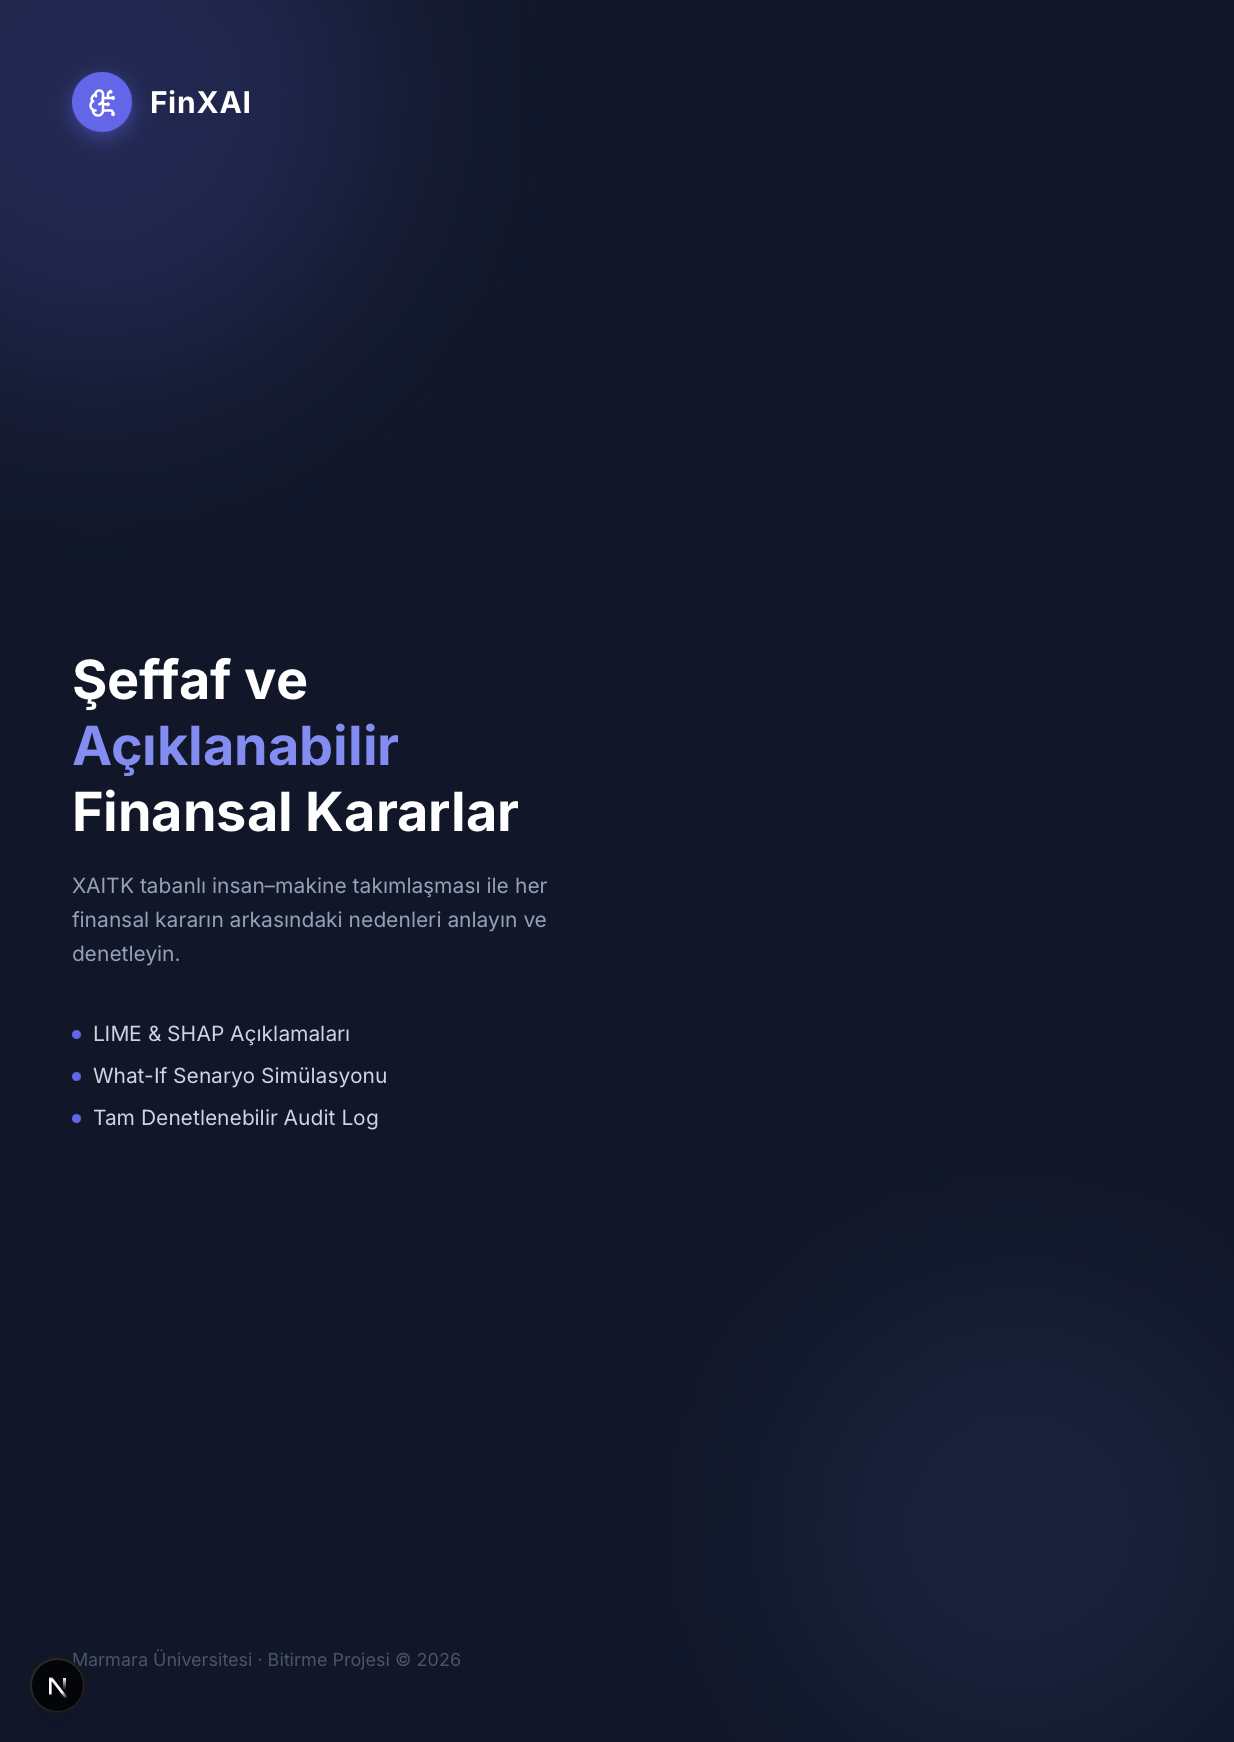
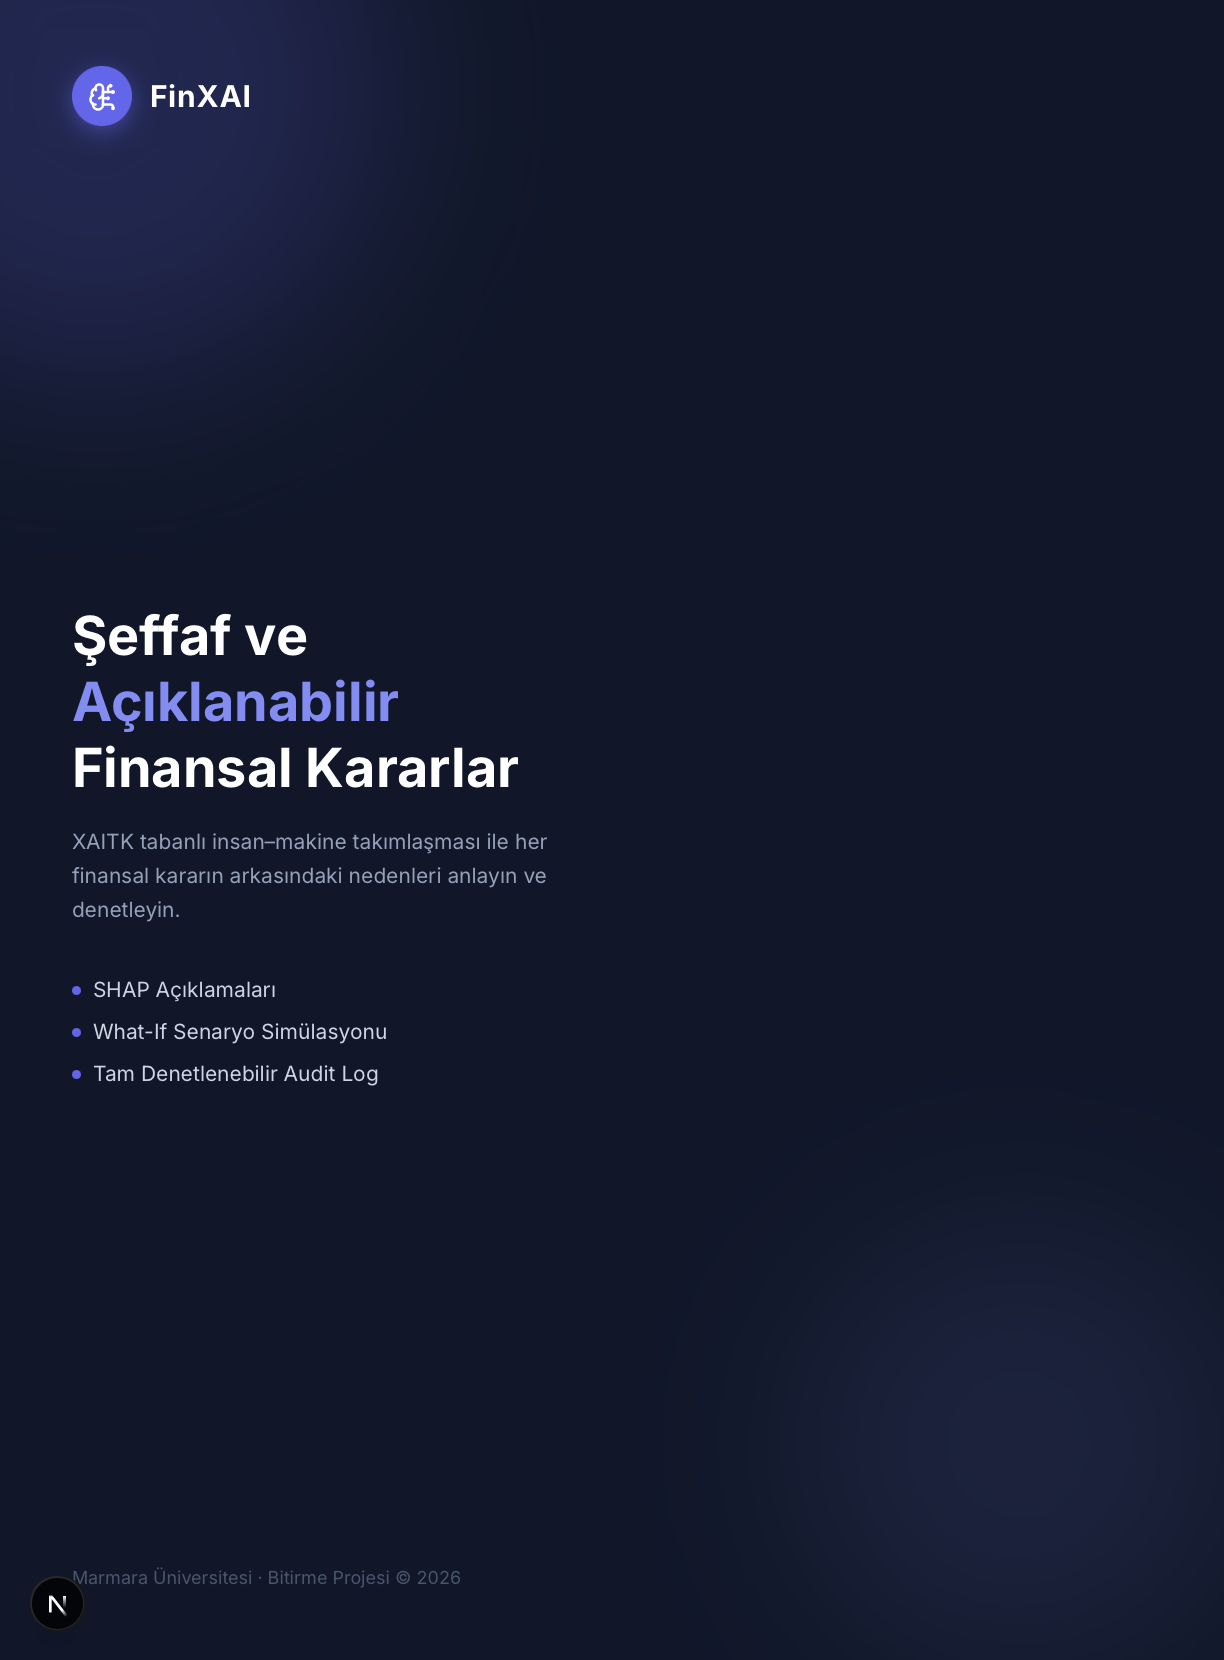
açıklamalar düzenlendi.

diff --git a/src/features/dashboard/components/SpecialistDashboard.tsx b/src/features/dashboard/components/SpecialistDashboard.tsx
@@ -35,11 +35,11 @@ function CustomTooltip({ active, payload }: { active?: boolean; payload?: Array<
 }
 
 function RiskGauge({ score }: { score: number }) {
-  const r       = 52;
-  const circ    = 2 * Math.PI * r;
-  const pct     = score / 100;
+  const r = 52;
+  const circ = 2 * Math.PI * r;
+  const pct = score / 100;
   const dashOff = circ * (1 - pct * 0.75);
-  const color   = score >= 70 ? '#ef4444' : score >= 40 ? '#f59e0b' : '#10b981';
+  const color = score >= 70 ? '#ef4444' : score >= 40 ? '#f59e0b' : '#10b981';
 
   return (
     <div className="flex flex-col items-center">
@@ -60,9 +60,9 @@ function RiskGauge({ score }: { score: number }) {
           style={{ transition: 'stroke-dashoffset 0.8s ease' }}
         />
         <text x="70" y="82" textAnchor="middle" fontSize="22" fontWeight="700"
-              fill="var(--text-primary)" fontFamily="inherit">{score}</text>
+          fill="var(--text-primary)" fontFamily="inherit">{score}</text>
         <text x="70" y="96" textAnchor="middle" fontSize="9" fill="var(--text-muted)"
-              fontFamily="inherit" fontWeight="600" letterSpacing="0.05em">RİSK SKORU</text>
+          fontFamily="inherit" fontWeight="600" letterSpacing="0.05em">RİSK SKORU</text>
       </svg>
     </div>
   );
@@ -84,7 +84,7 @@ export function SpecialistDashboard() {
   const isApproved = result.prediction === 0; // 0: Risksiz (Onaylandı), 1: Riskli (Reddedildi)
   const riskScore = Math.round(result.risk_probability * 100);
 
-  // API'den gelen önem derecelerini LIME formatına dönüştür
+  // API'den gelen önem derecelerini SHAP formatına dönüştür
   const chartData = result.top_explanations.map(exp => ({
     feature: exp.feature,
     contribution: exp.importance // Eğer API hep pozitif dönüyorsa hepsi aynı yönde çizer, risk yönüne göre renklendirilebilir ama şimdilik doğrudan kullanıyoruz.

diff --git a/src/mocks/handlers.ts b/src/mocks/handlers.ts
@@ -25,7 +25,6 @@ export const handlers = [
     });
   }),
 
-  // LIME Değerleri API (Uzman için)
   http.get('/api/explanations/lime', () => {
     return HttpResponse.json({
       localExplanations: [
@@ -39,7 +38,7 @@ export const handlers = [
   // What-If Senaryo API
   http.post('/api/simulate', async ({ request }) => {
     const data = await request.json() as any;
-    
+
     // Basit bir mock mantığı: Gelir artarsa risk düşer.
     let newScore = 78;
     if (data.income > 20000) {
@@ -50,8 +49,8 @@ export const handlers = [
       decision: newScore > 60 ? 'REJECTED' : 'APPROVED',
       riskScore: newScore,
       riskLabel: newScore > 60 ? 'Yüksek Risk' : 'Düşük Risk',
-      message: newScore > 60 
-        ? 'Risk hala yüksek, kredi onaylanmadı.' 
+      message: newScore > 60
+        ? 'Risk hala yüksek, kredi onaylanmadı.'
         : 'Gelir artışı ile risk düştü, kredi onaylanabilir.',
     });
   }),

diff --git a/src/app/page.tsx b/src/app/page.tsx
@@ -24,7 +24,7 @@ const ROLES = [
     id: 'SPECIALIST' as const,
     label: 'Kredi Uzmanı',
     sublabel: 'Operasyon',
-    description: 'LIME açıklamaları, risk analizi ve senaryo simülasyonlarını yönetin.',
+    description: 'SHAP açıklamaları, risk analizi ve senaryo simülasyonlarını yönetin.',
     icon: <TrendingUp size={22} />,
     gradient: 'from-indigo-500 to-violet-500',
     bg: 'hover:bg-indigo-50 border-indigo-100 hover:border-indigo-300',
@@ -91,7 +91,7 @@ function LoginPage() {
 
           {/* Feature pills */}
           <div className="mt-8 flex flex-col gap-2">
-            {['LIME & SHAP Açıklamaları', 'What-If Senaryo Simülasyonu', 'Tam Denetlenebilir Audit Log'].map((f) => (
+            {['SHAP Açıklamaları', 'What-If Senaryo Simülasyonu', 'Tam Denetlenebilir Audit Log'].map((f) => (
               <div key={f} className="flex items-center gap-2 text-slate-300 text-sm">
                 <span className="w-1.5 h-1.5 rounded-full" style={{ background: 'var(--primary)' }} />
                 {f}

diff --git a/README.md b/README.md
@@ -7,13 +7,13 @@
 
 Proje, farklı kullanıcı rollerinin ihtiyaçlarına uygun olarak tasarlanmış arayüzler sunar:
 - **Müşteri (Son Kullanıcı):** Kredi başvurularının sonuçlarını ve AI tarafından üretilen anlaşılır açıklamaları görüntüler.
-- **Kredi Uzmanı (Operasyon):** LIME (Local Interpretable Model-Agnostic Explanations) açıklamalarını, risk analizlerini ve What-If (Durum) senaryo simülasyonlarını yönetir.
+- **Kredi Uzmanı (Operasyon):** SHAP açıklamalarını, risk analizlerini ve What-If (Durum) senaryo simülasyonlarını yönetir.
 - **Veri Bilimcisi (Analist):** Global SHAP (SHapley Additive exPlanations) değerleri, dependence plot ve detaylı model performans metriklerini inceler.
 
 ## Temel Özellikler
 - **Rol Tabanlı Erişim ve Paneller:** Müşteri, Uzman ve Analist için özelleştirilmiş, amaca yönelik arayüzler (Dashboards).
 - **Açıklanabilir Yapay Zeka (XAI) Entegrasyonları:**
-  - LIME ve SHAP grafikleri ile yerel (local) ve genel (global) model açıklamaları.
+  - SHAP grafikleri ile yerel (local) ve genel (global) model açıklamaları.
   - Makine öğrenmesi kararlarının insan diline yakınlaştırılması.
 - **What-If Senaryo Simülasyonu:** Veriler üzerinde değişiklik yapılarak modelin kararlarının nasıl değişeceğini anında görebilme.
 - **Tam Denetlenebilir Audit Log:** Sistemde yapılan her işlemin ve alınan her kararın güvenli bir şekilde kaydedilmesi ve raporlanabilmesi.
@@ -32,7 +32,7 @@ Proje, farklı kullanıcı rollerinin ihtiyaçlarına uygun olarak tasarlanmış
 ### 3. Kredi Uzmanı Paneli (Specialist Dashboard & What-If Senaryosu)
 ![Kredi Uzmanı Paneli](./docs/images/specialist_dashboard_placeholder.png)
 
-### 4. Veri Bilimcisi Paneli (Analyst Dashboard & SHAP/LIME Metrikleri)
+### 4. Veri Bilimcisi Paneli (Analyst Dashboard & SHAP Metrikleri)
 ![Veri Bilimcisi Paneli](./docs/images/analyst_dashboard_placeholder.png)
 
 ---
@@ -115,7 +115,7 @@ npm run start
 ---
 
 ## Akademik Kapsam ve İnsan-Makine Takımlaşması (Human-AI Teaming)
-Bu proje, XAI (Açıklanabilir Yapay Zeka) yöntemlerinin (özellikle LIME ve SHAP) gerçek dünya problemlerinde, bilhassa finansal kredi risk değerlendirmesinde nasıl kullanılabileceğini ortaya koyar.
+Bu proje, XAI (Açıklanabilir Yapay Zeka) yöntemlerinin (özellikle SHAP) gerçek dünya problemlerinde, bilhassa finansal kredi risk değerlendirmesinde nasıl kullanılabileceğini ortaya koyar.
 Makine öğrenmesi algoritmalarının "kara kutu" (black-box) yapısını ortadan kaldırarak;
 1. **Adalet (Fairness):** Veri bilimciler için bias (yanlılık) takibini kolaylaştırır.
 2. **Hesap Verilebilirlik (Accountability):** Audit loglar ve kararların gerekçelendirilmesi ile yasal standartlara zemin hazırlar.